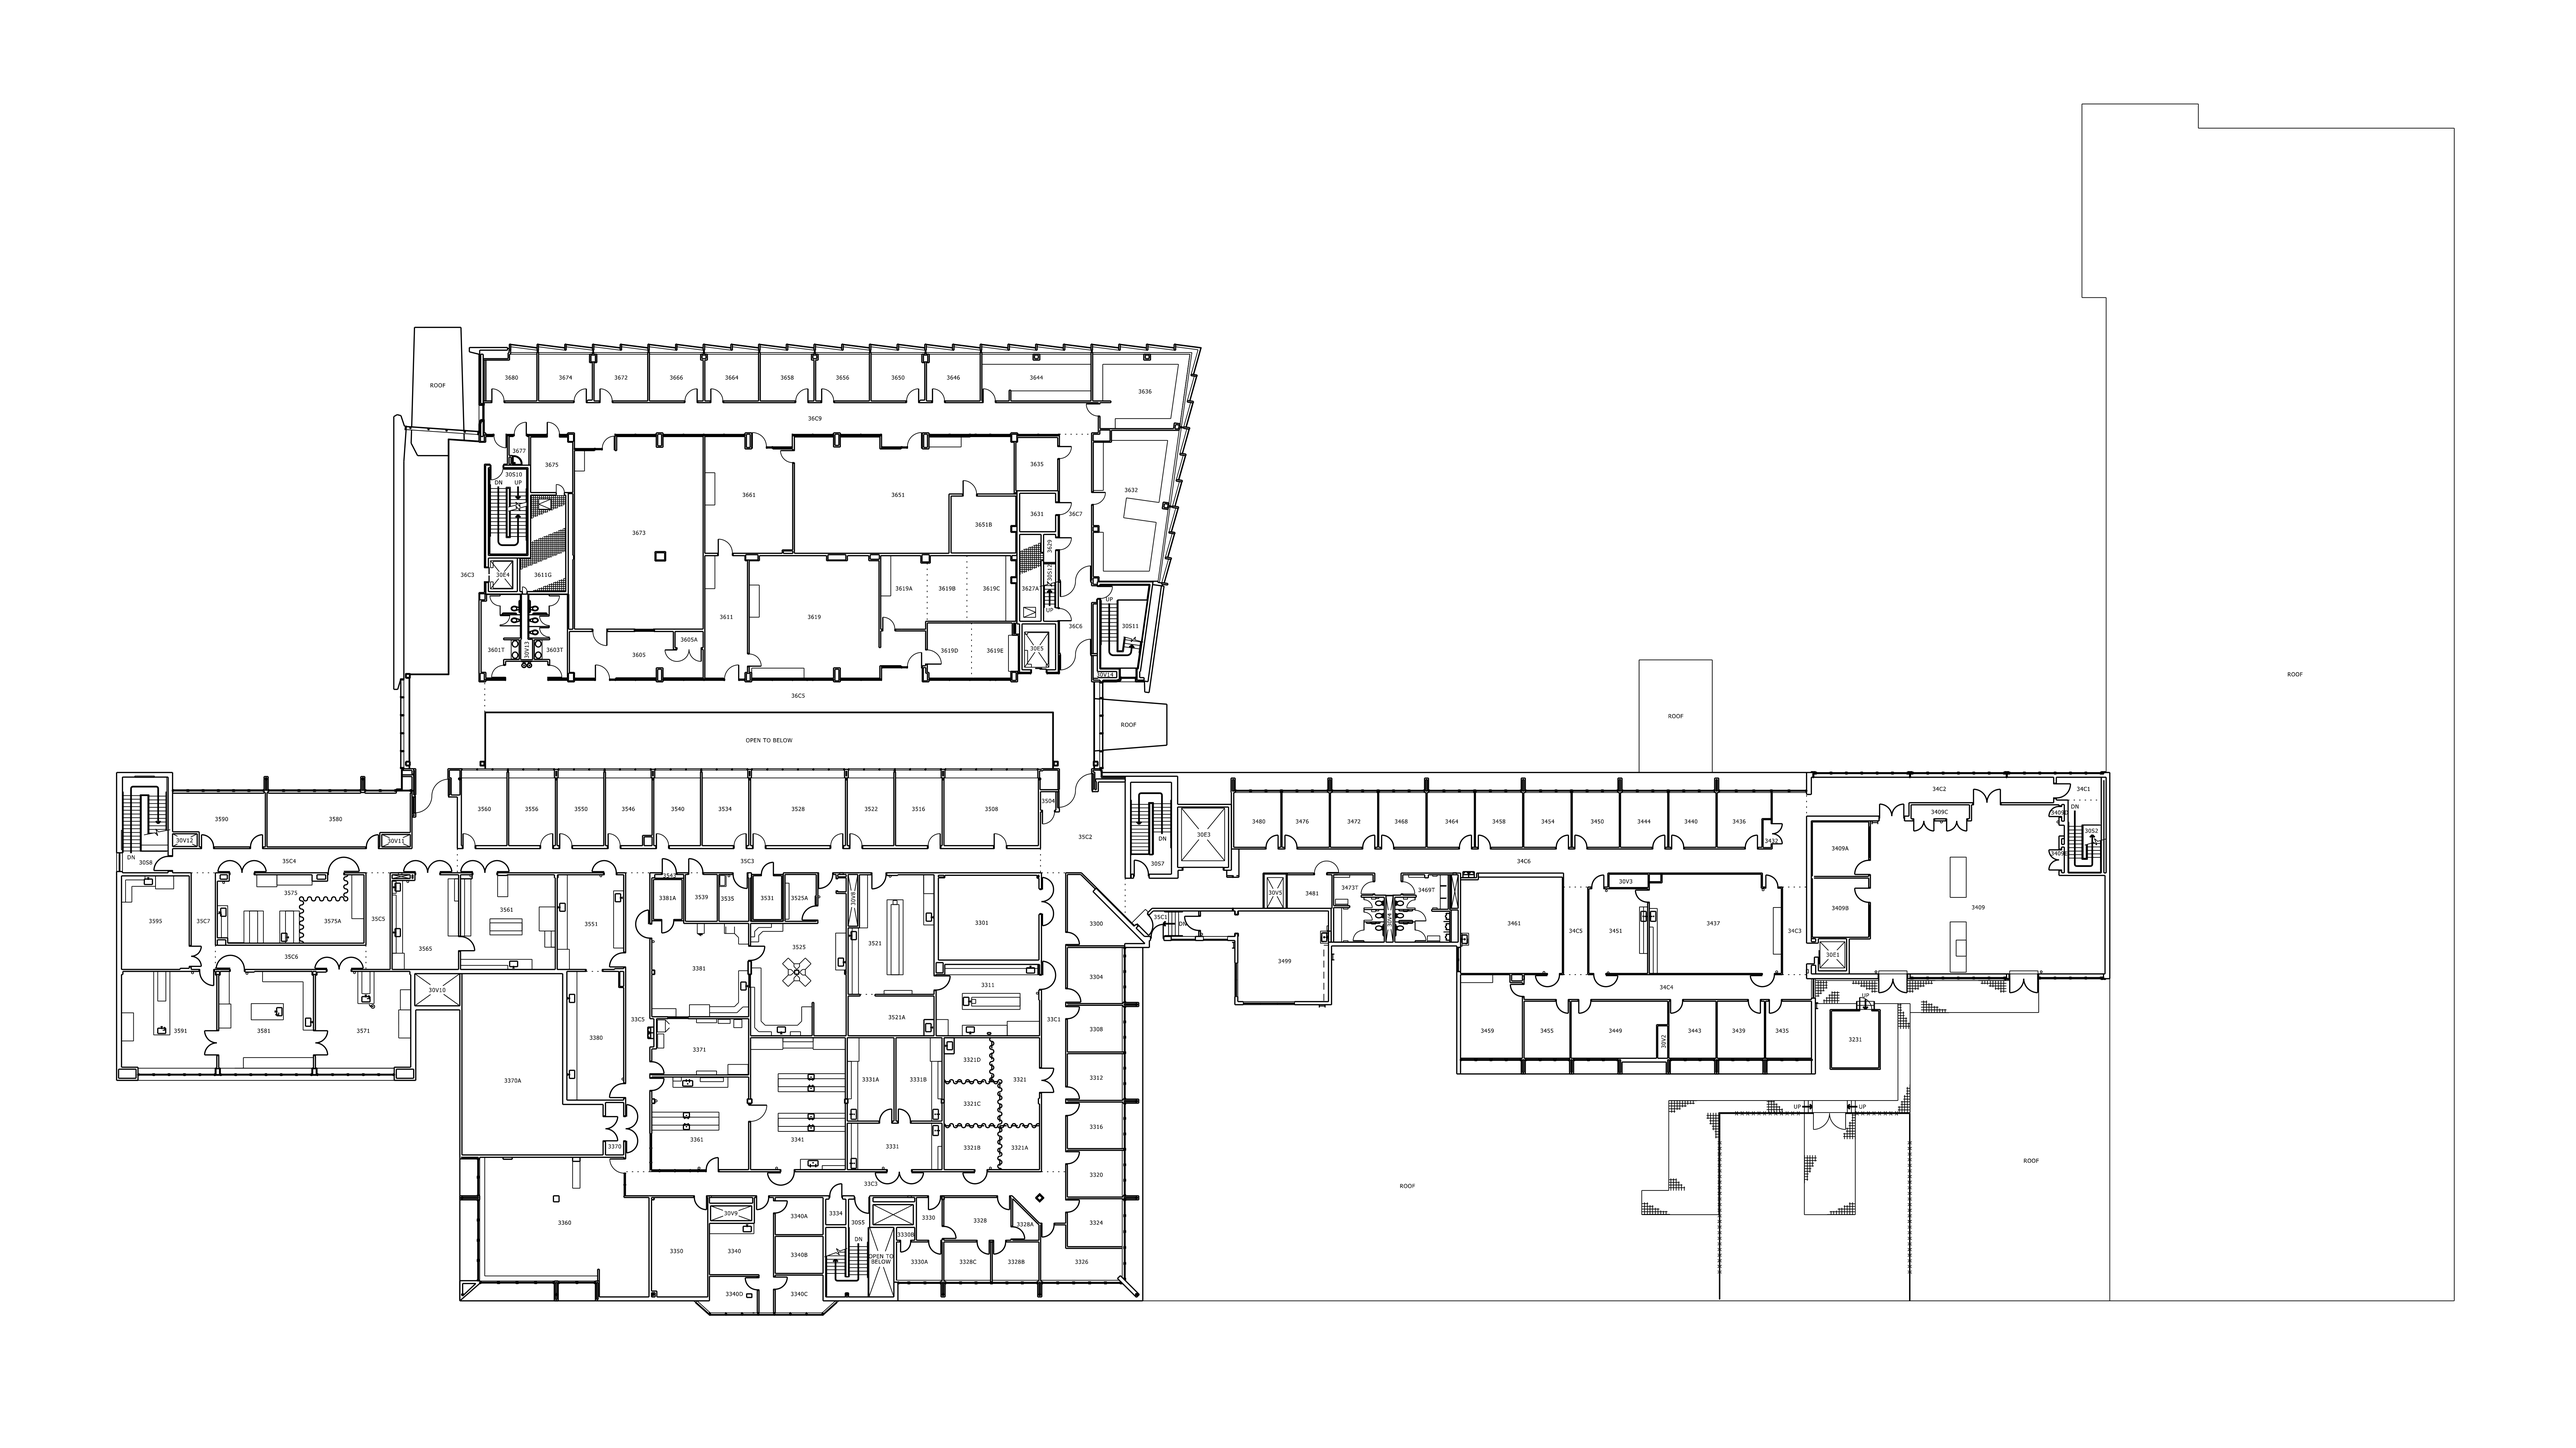
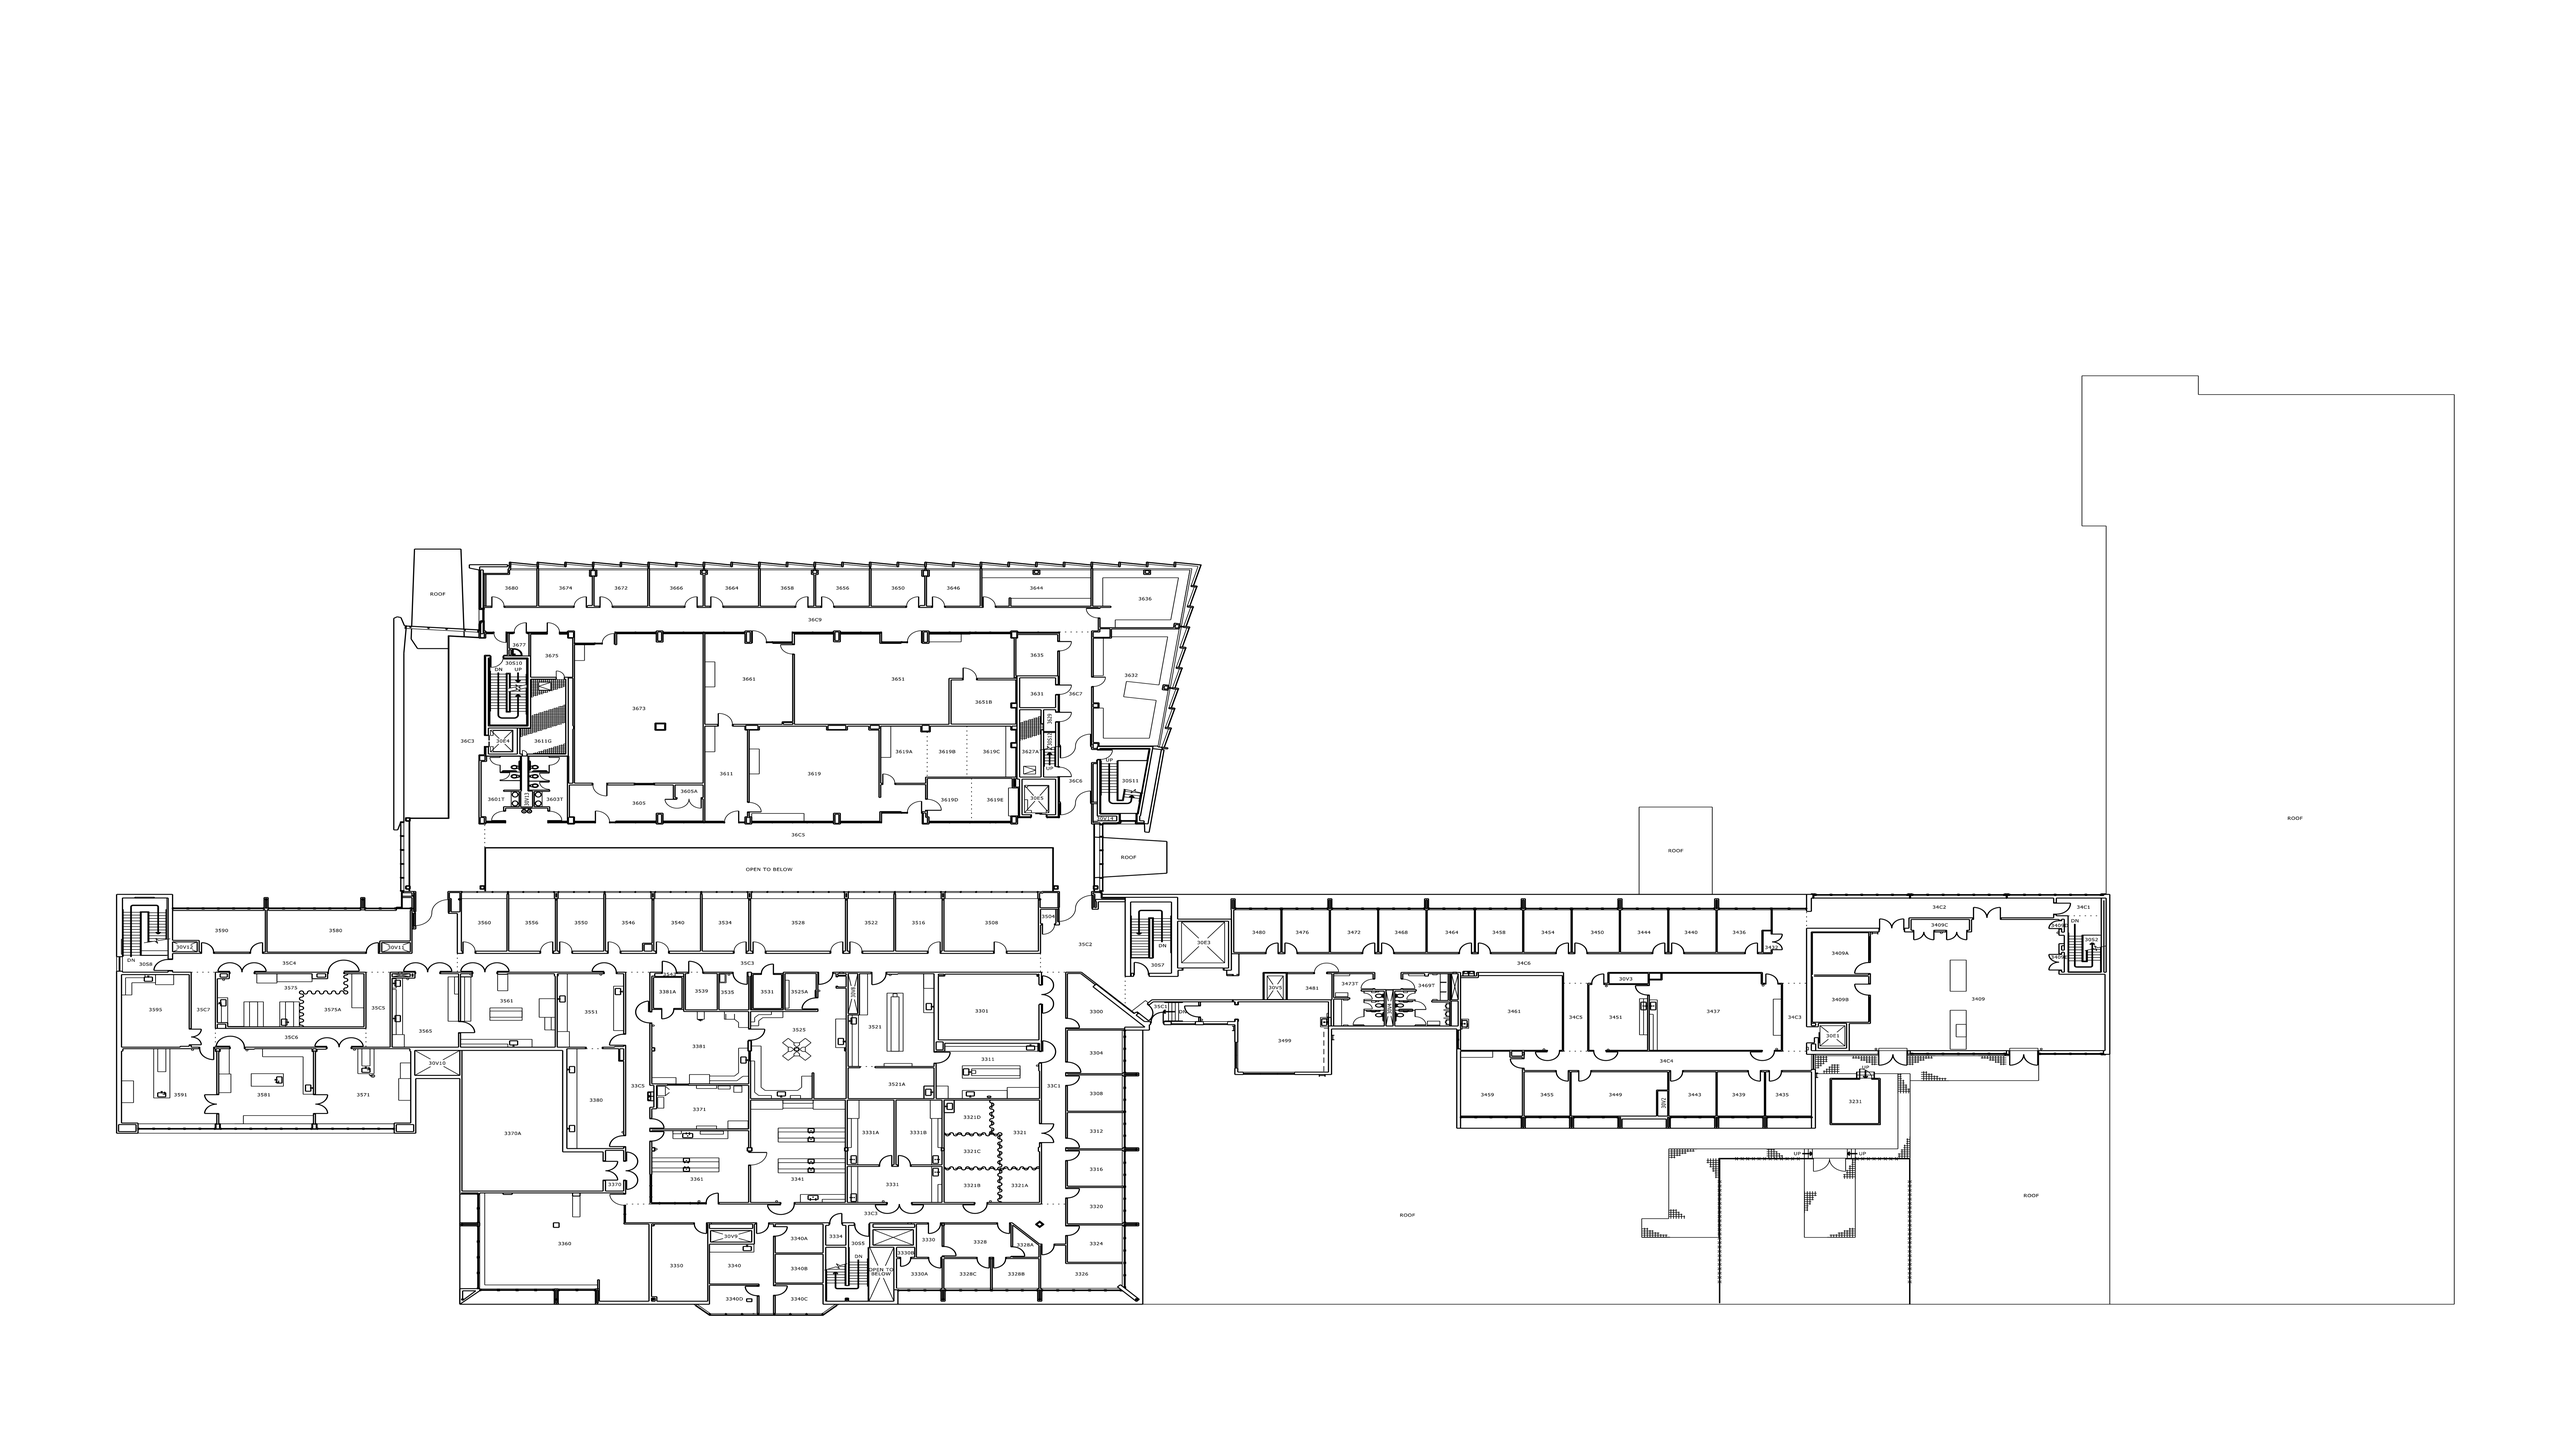
floor 3 bounds

Changed region(s): [[0.0312, 0.2175, 0.8412, 0.901]]

diff --git a/script.js b/script.js
@@ -113,8 +113,14 @@ function initMap() {
     new google.maps.LatLng(42.29405892225341, -83.71278616217957)
   );
 
+  // bounds for floor3
+  const bounds_3 = new google.maps.LatLngBounds(
+    new google.maps.LatLng(42.292853987978575, -83.71516984441227),
+    new google.maps.LatLng(42.294079346431595, -83.71278616217957)
+  );
+
   // Array of all bounds 
-  const bounds_arr = [bounds_1, bounds_2];
+  const bounds_arr = [bounds_1, bounds_2, bounds_3];
 
 
   /* IMAGE OVERLAY -- choose correct floor*/
